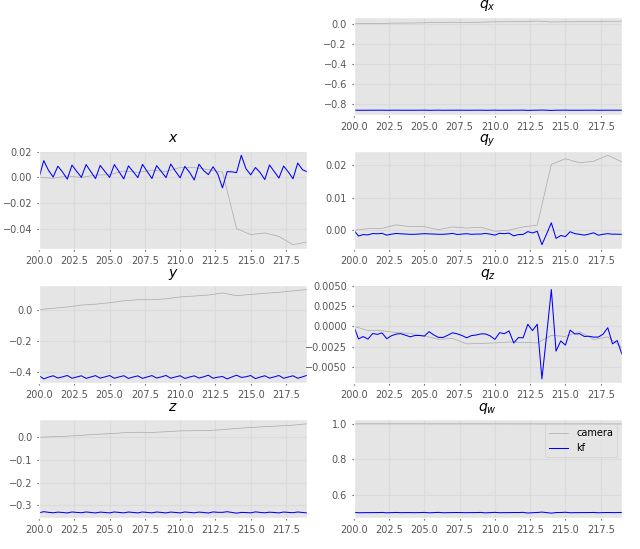
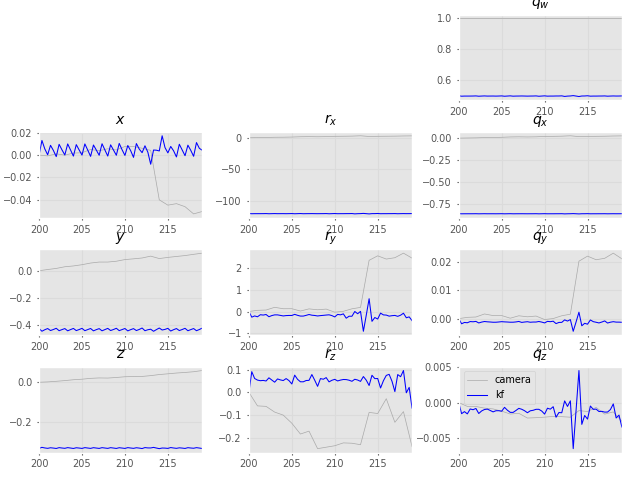
updated kf plot

diff --git a/readme.md b/readme.md
@@ -5,11 +5,8 @@ the calibration parameters in a camera-IMU sensor probe setup.
 [Program outline](https://www.evernote.com/l/AeQSiL2U6txCWbgNAi1G9mUtWune-gjHNlU/)
 
 ## Current results
-![](img/kf.png)
-
-- [ ] Shown are IMU positions and rotations, I still need to work on
-proper plot functions for the rest of the states.
-- [ ] Equations/Jacobian stuff still needs checking.
+![](img/kf_mono_imu.png)
+![](img/kf_mono_cam.png)
 
 ## Probe
 ```
